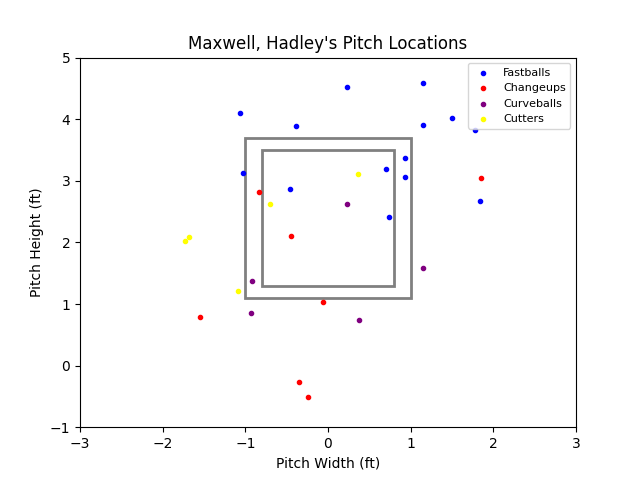
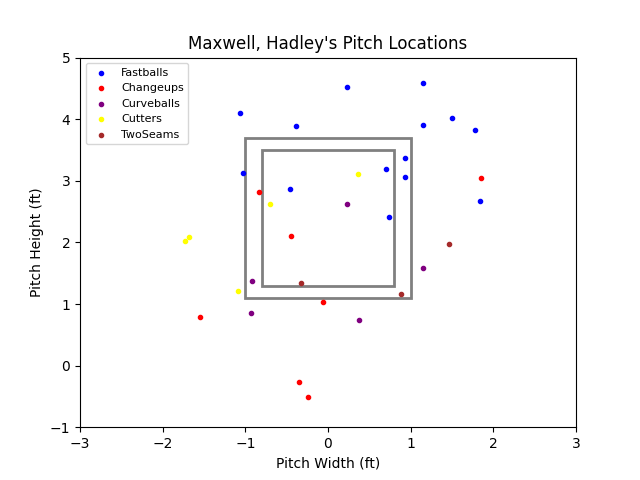
TwoSeamsAdded

Changed region(s): [[0.7188, 0.125, 0.9062, 0.2812], [0.125, 0.125, 0.2812, 0.3125]]

diff --git a/filereader.py b/filereader.py
@@ -97,7 +97,7 @@ def pltPitches(Player):
       elif pitch.ptype == "Sinker":
         xSink.append(float(pitch.plside))
         ySink.append(float(pitch.plheight))
-      elif pitch.ptype == "TwoSeamFastball":
+      elif pitch.ptype == "TwoSeamFastBall":
         xTsea.append(float(pitch.plside))
         yTsea.append(float(pitch.plheight))
       elif pitch.ptype == "Cutter":
